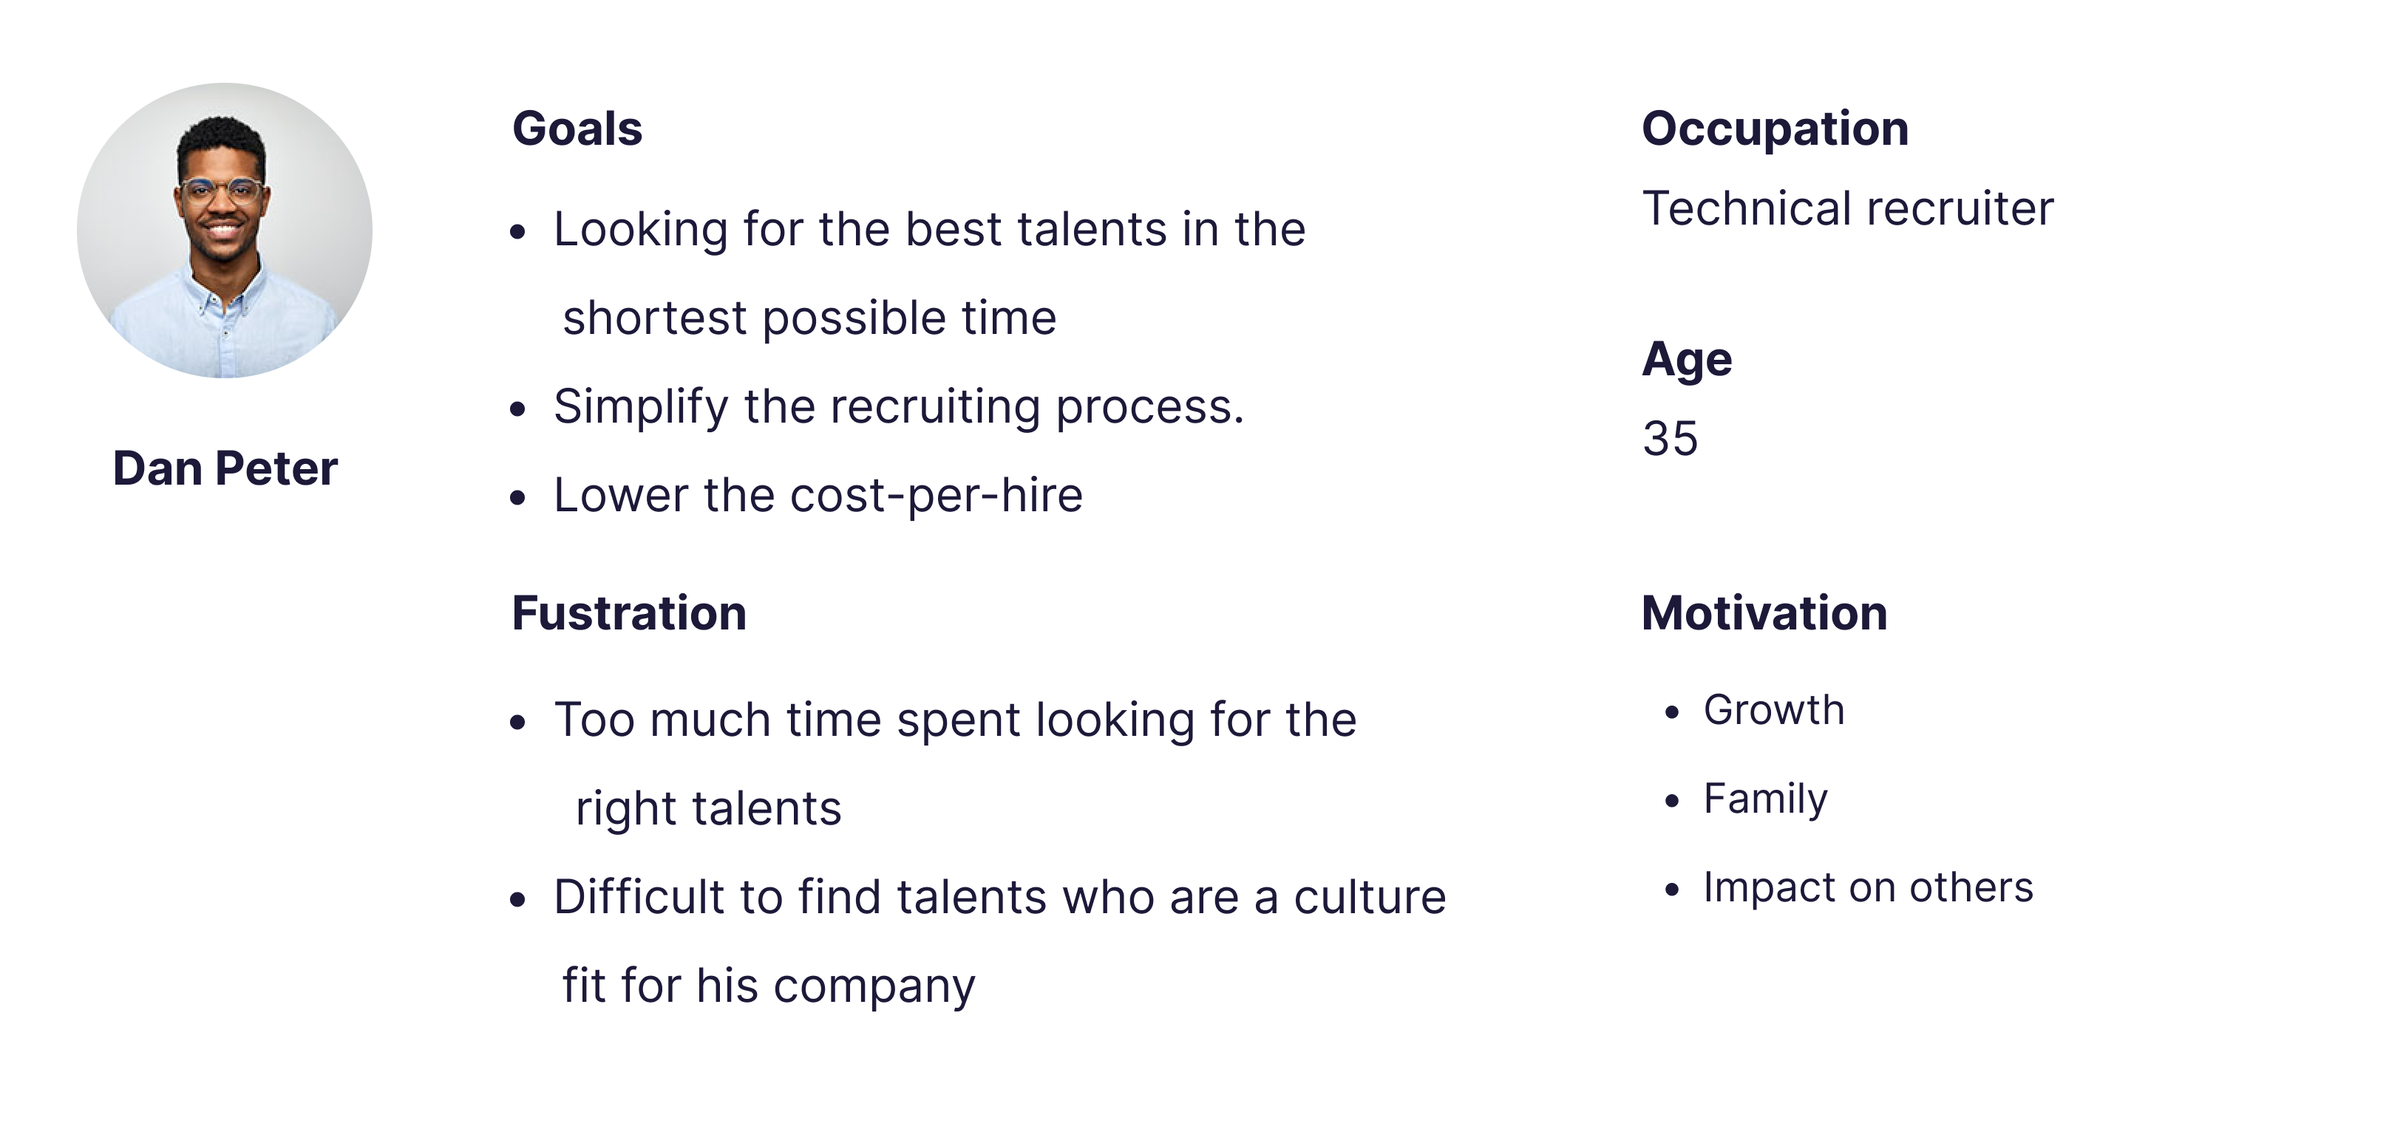
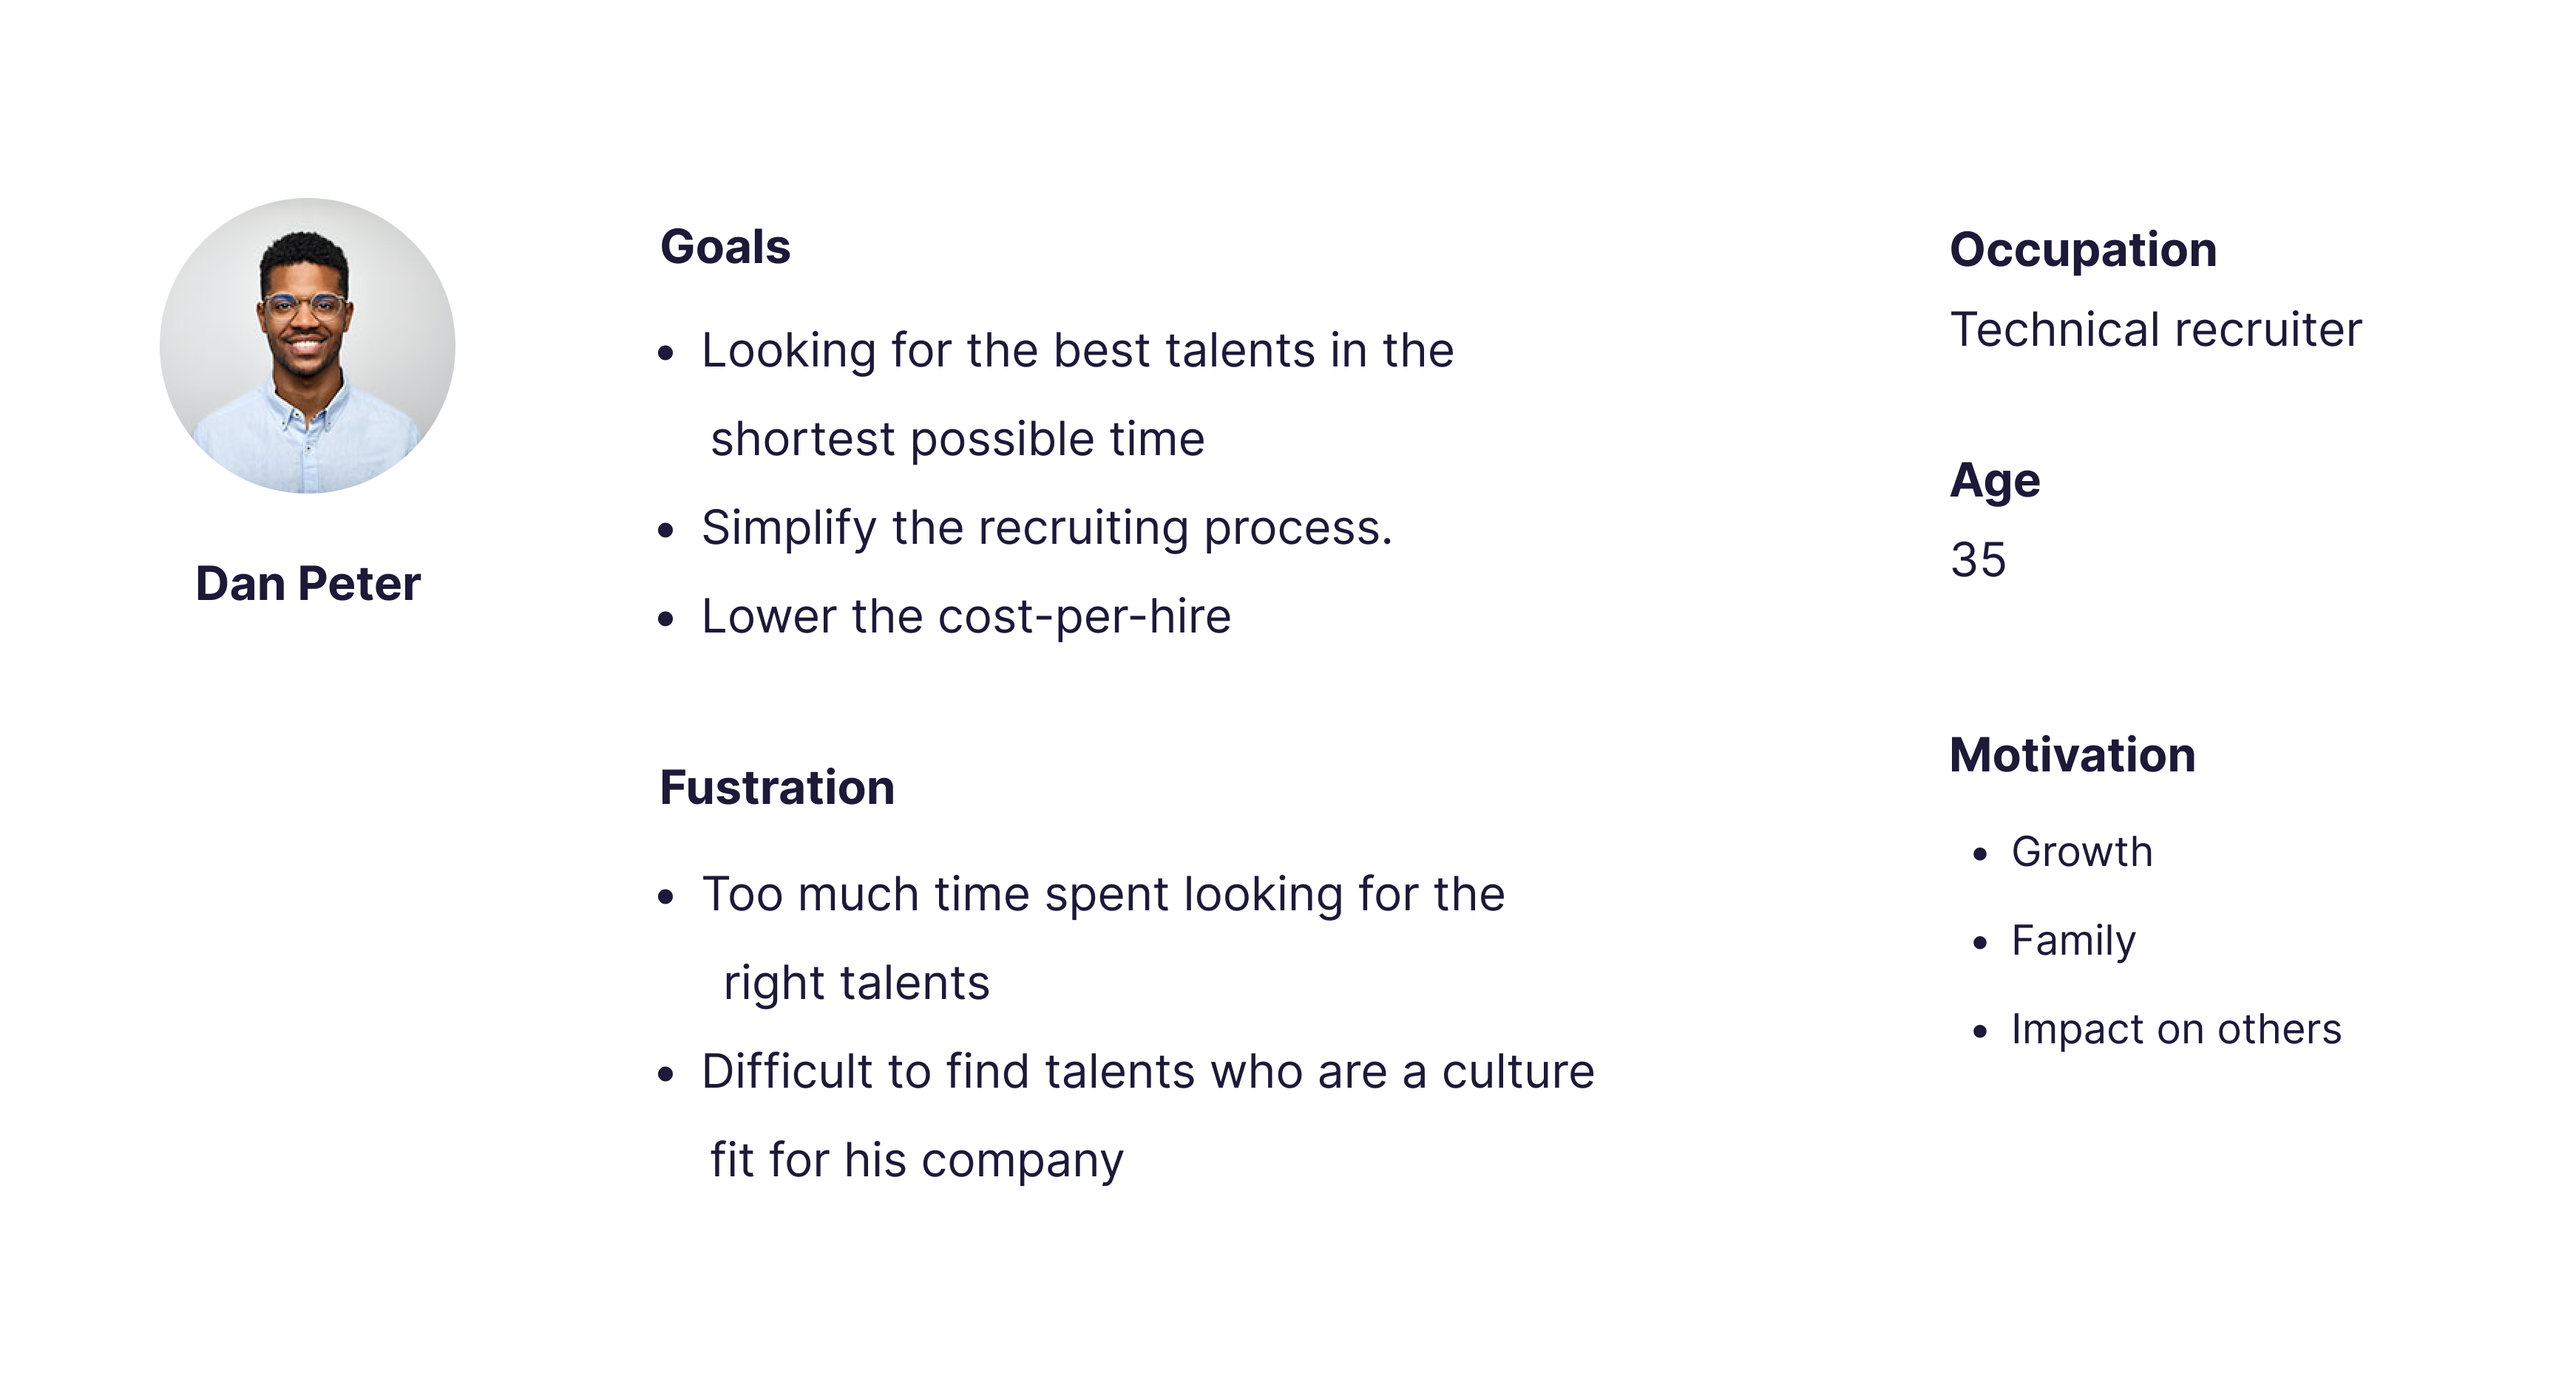
commit

diff --git a/src/BorderlessCaseStudy.js b/src/BorderlessCaseStudy.js
@@ -135,7 +135,7 @@ function BorderlessCaseStudy() {
           </p>
 
           <p>
-            This helps us gauge user needs, and pain points felt by tech talents
+            This helped us gauge user needs, and pain points felt by tech talents
             and understand the needs of businesses. These insights included:
             simplifying the profile creation process, introducing a feedback
             channel, and getting more details not contained in talent's resume.

diff --git a/src/BorderlessCaseStudy.css b/src/BorderlessCaseStudy.css
@@ -15,7 +15,7 @@
     padding-top: 60px;
 }
 .borderless{
-    width: 75%;
+    width: 87%;
     margin: auto;
     padding-bottom: 70px;
 }
@@ -33,14 +33,13 @@
 .problem-diagnosis{
     display: flex;
     padding-top: 50px;
-    height: 370px;
 }
 .problem-diagnosis img{
-    width: 50%;
+    width: 48%;
     border-radius: 10px
 }
 .diagnosis-pix{
-    margin-left: 40px;
+    margin-left: 30px;
 }
 .borderless1{
     display: flex;
